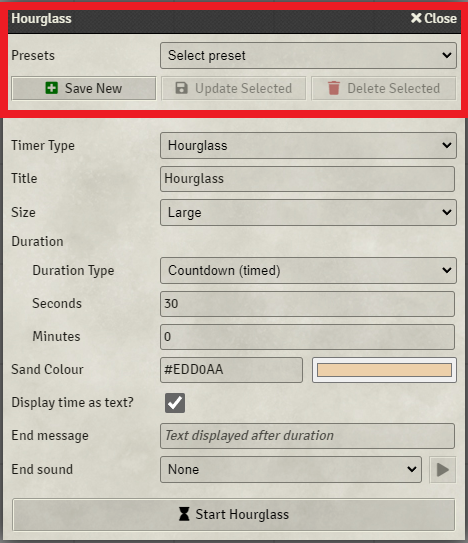
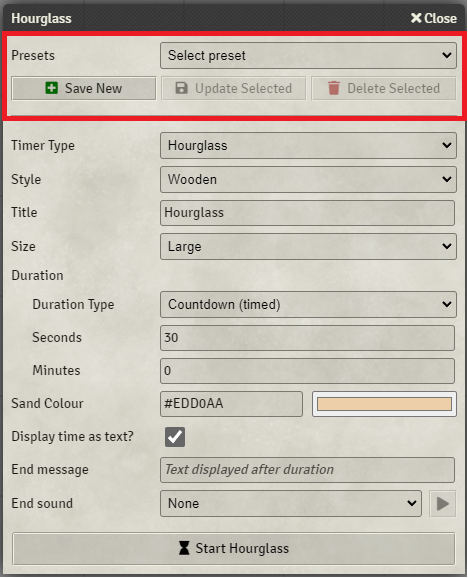
Added style options for timer bodies

diff --git a/scripts/hourglass-gui.js b/scripts/hourglass-gui.js
@@ -27,6 +27,7 @@ export class HourglassGui extends FormApplication {
     durationIncrements: 4,
     sandColour: "#EDD0AA",
     title: "Hourglass",
+    style: "Hourglass_Empty",
     size: "large",
     timeAsText: true,
     endMessage: "",
@@ -68,6 +69,7 @@ export class HourglassGui extends FormApplication {
     setSelectedValue("hourglassSize", HourglassGui.hourGlassDefaultOptions.size);
     setSelectedValue("endSound", HourglassGui.hourGlassDefaultOptions.endSound);
     setSelectedValue("durationType", HourglassGui.hourGlassDefaultOptions.durationType);
+    setSelectedValue("styleSelect", HourglassGui.hourGlassDefaultOptions.style);
 
     document.getElementById('hourglass-gui-application').style.height = "auto";
   }
@@ -93,6 +95,7 @@ export class HourglassGui extends FormApplication {
       durationMinutes,
       durationIncrements,
       title,
+      style,
       size,
       timeAsText,
       sandColour,
@@ -108,6 +111,7 @@ export class HourglassGui extends FormApplication {
       durationMinutes: durationMinutes,
       durationIncrements: durationIncrements,
       title: title,
+      style: style,
       size: size,
       timeAsText: timeAsText,
       sandColour: sandColour,
@@ -210,7 +214,7 @@ export class HourglassGui extends FormApplication {
       document.getElementById("endSoundPath").value = selectedOptions.endSoundPath ?? "";
       setSelectedValue("timerType", selectedOptions.timerType);
 
-      //slight hack to ensure presents saved before addition of "durationType", "hourglassSize" and "endSound" default to a value that matches their previous behaviour
+      //slight hack to ensure presents saved before addition of new features default to a value that matches their previous behaviour
       setSelectedValue("durationType", selectedOptions.durationType === undefined ? "timed" : selectedOptions.durationType);
       setSelectedValue("hourglassSize", selectedOptions.size === undefined ? "large" : selectedOptions.size);
       setSelectedValue("endSound", selectedOptions.endSound === undefined ? "" : selectedOptions.endSound);
@@ -218,6 +222,13 @@ export class HourglassGui extends FormApplication {
 
     this.refreshPresetButtons();
     this.refreshTypeOptions();
+
+    if(!!selectedOptions) {
+      //since the available styles is dependent on the timer type, we need to set this value AFTER the type options have been populated
+      const defaultStyle = selectedOptions.timerType == "hourglass" ? "Hourglass_Empty" : "Flipdown";
+      setSelectedValue("styleSelect", selectedOptions.style === undefined ? defaultStyle : selectedOptions.style);
+    }
+
     this.refreshEndSoundOptions();
   }
 
@@ -236,6 +247,7 @@ export class HourglassGui extends FormApplication {
       id: presetId,
       timerType: document.getElementById("timerType").value,
       title: document.getElementById("hourglassTitle").value,
+      style: document.getElementById("styleSelect").value,
       size: document.getElementById("hourglassSize").value,
       durationType: document.getElementById("durationType").value,
       durationSeconds: document.getElementById("hourglassDurationSeconds").value,
@@ -308,8 +320,34 @@ export class HourglassGui extends FormApplication {
 
     if(typeSelect.value === "flipdown") {
       hideFormElements(true, ["hourglassColourContainer", "hourglassTimeAsTextContainer"]);
+      this.setStyleOptions([{
+        text: "Brass",
+        value: "Flipdown"
+      },{
+        text: "Plastic",
+        value: "Flipdown_Plastic"
+      }]);
+
+      //default selected value seems to be first alphabetically so setting this "original" styles
+      setSelectedValue("styleSelect", "Flipdown");
     } else {
       hideFormElements(false, ["hourglassColourContainer", "hourglassTimeAsTextContainer"]);
+      this.setStyleOptions([{
+        text: "Wooden",
+        value: "Hourglass_Empty"
+      },{
+        text: "Plastic",
+        value: "Hourglass_Empty_Plastic"
+      },{
+        text: "Stone (Round)",
+        value: "Hourglass_Empty_Stone_Round"
+      },{
+        text: "Stone (Square)",
+        value: "Hourglass_Empty_Stone_Square"
+      }]);
+
+      //default selected value seems to be first alphabetically so setting this "original" styles
+      setSelectedValue("styleSelect", "Hourglass_Empty");
     }
 
     if(durationSelect.value === "timed") {
@@ -318,6 +356,24 @@ export class HourglassGui extends FormApplication {
     } else {
       hideFormElements(true, ["hourglassDurationSecondsContainer", "hourglassDurationMinutesContainer", "hourglassTimeAsTextLabel"]);
       hideFormElements(false, ["hourglassDurationIncrementsContainer", "hourglassIncrementsAsTextLabel"]);
+    }
+  }
+
+  setStyleOptions(options) {
+    const styleSelect = document.getElementById("styleSelect");
+
+    for(let i = styleSelect.options.length; i >= 0; i--) {
+      styleSelect.remove(i);
+    }
+
+    const sortedOptions = options.sort((a, b) => a.text.localeCompare(b.text));
+
+    for(let i = 0; i < sortedOptions.length; i++) {
+        const option = sortedOptions[i];
+        let optionElement = document.createElement("option");
+        optionElement.textContent = option.text;
+        optionElement.value = option.value;
+        styleSelect.appendChild(optionElement);
     }
   }
 

diff --git a/scripts/hourglass.js b/scripts/hourglass.js
@@ -37,6 +37,7 @@ export class Hourglass extends Application {
         this._hourglassDripId = `hourglass-drip-${this._id}`;
         
         this._title = options.title;
+        this._style = options.style;
         this._timeAsText = options.timeAsText;
         this._sandColour = options.sandColour;
         this._endMessage = options.endMessage;
@@ -118,6 +119,7 @@ export class Hourglass extends Application {
         canvasElement.style.setProperty('--sand-duration', this._duration + "s");
         canvasElement.style.setProperty('--sand-color', this._sandColour);
         canvasElement.style.setProperty('--scale', this._scale);
+        canvasElement.style.setProperty('--styleUrl', `url(../images/${this._style}.png)`)
 
         this._elapsedTime = 0;
 

diff --git a/scripts/flipdown.js b/scripts/flipdown.js
@@ -31,6 +31,7 @@ export class FlipDown extends Application {
     this._pauseId = `hourglass-pause-${this._id}`;
     
     this._title = options.title;
+    this._style = options.style;
     this._endMessage = options.endMessage;
     this._endSound = options.endSound;
     this._endSoundPath = options.endSoundPath;
@@ -120,6 +121,7 @@ export class FlipDown extends Application {
         windowElement.style.setProperty('width', this._width);
         windowElement.style.setProperty('--scale', this._scale);
         windowElement.style.setProperty('--messageScale', this._messageScale);
+        windowElement.style.setProperty('--styleUrl', `url(../images/${this._style}.png)`)
 
     this.createRotors();
 

diff --git a/styles/hourglass.css b/styles/hourglass.css
@@ -22,6 +22,7 @@
   --translate-bottom-sand: 100%;
   --scale: 1;
   --animationPlayState: running;
+  --styleUrl: url(../images/Hourglass_Empty_Stone_Square.png);
 
   position: relative;
   margin: auto;
@@ -31,7 +32,7 @@
 }
 
 .hourglass .hourglass-body {
-  background-image: url(../images/Hourglass_Empty.png);
+  background-image: var(--styleUrl);
   background-position: center;
   background-size: contain;
   background-repeat: no-repeat;

diff --git a/styles/flipdown.css b/styles/flipdown.css
@@ -26,6 +26,7 @@
   box-shadow: none;
   --scale: 1;
   --messageScale: 1;
+  --styleUrl: url(../images/Flipdown.png);
 }
 
 .flipdownbody .window-content {
@@ -99,7 +100,7 @@
   font-family: sans-serif;
   font-weight: bold;
 
-  background-image: url(../images/Flipdown.png);
+  background-image: var(--styleUrl);
   background-position: center;
   background-size: contain;
   background-repeat: no-repeat;

diff --git a/templates/hourglass-gui.html b/templates/hourglass-gui.html
@@ -41,6 +41,12 @@
     </div>
 
     <div class="hourglass-gui__form__item">
+      <label for="style">Style</label>
+      <select id="styleSelect" name="style">
+      </select>
+    </div>
+
+    <div class="hourglass-gui__form__item">
       <label for="title">Title</label>
       <input  type="text" 
               name="title"

diff --git a/README.md b/README.md
@@ -8,14 +8,14 @@
 
 Configurable animated graphical timers & round trackers for foundry VTT that can be shown by the GM to all players.
 
-![Hourglass Window][1]
-![Hourglass Window][6]
+![Hourglass Timer][1]
+![Flipdown Timer][6]
 
 ## Hourglass Options
 
 To create a new hourglass, a Game Master may select the hourglass icon under the _Token Controls_. 
 
-![Hourglass Window][8]
+![Hourglass Menu][8]
 
 This will open the options window for you to configure your hourglass.
 
@@ -23,6 +23,7 @@ This will open the options window for you to configure your hourglass.
 
 + **Timer Type** - The type of animated graphic to show to players. Options currently include "Hourglass" & "Flipdown Clock".
 + **Title** - The display name of the timer that will appear at the top left.
++ **Style** - The visual style of the timer graphic to be displayed.
 + **Size** - The display size of the timer window: Tiny, Small, Medium & Large.
 + **Duration Type** - Whether the timer should be an automatic (timed) or manual "on click" countdown.
 + **Duration (Seconds/Minutes)** - The time taken for the hourglass to complete.
@@ -35,11 +36,13 @@ This will open the options window for you to configure your hourglass.
 
 The _start hourglass_ button, once pressed, will cause a new hourglass window to appear on the screen of all players currently in the game session using the chosen options:
 
-![Hourglass Window][3]
+![Hourglass Timer Purple][3]
 
 Once the duration has elapsed, the remaining time will dissapear and be replaced by the _end message_ (if one has been entered):
 
-![Hourglass Window][4]
+![Hourglass Timer Message][4]
+
+An _end sound_ will also be played to all players (if one has been selected).
 
 Players can move the hourglass around the screen while it is counting down. They do also have the option of closing it, though they should only do this once the duration has elapsed.
 
@@ -50,15 +53,34 @@ Multiple hourglasses can be opened by a GM at one time, should you wish to track
 ## Manual "on click" control
 Timers can be set to "manual" control by setting the Duration type to "Manual (user click)" in the hourglass options.
 
-![Hourglass Window][7]
+![Hourglass Timer Manual][7]
 
 The manual timers feature a forward and backward button that, when clicked, will decrease and increase the remaining increments respectively. This could potentially be used by GMs to include manually controlled/incremented events or round tracking within their games. Both forward and back buttons are only visible to users with the GM role.
+
+## Styles
+As well as changing the sand colour, each timer has a range of different visual styles to choose from.
+
+<table>
+<tr>
+<td>
+<img src="https://raw.githubusercontent.com/Octarines/FoundryHourglass/main/demo/hourglass-custom-round.PNG"
+     alt="Hourglass Timer Round Stone"/>
+</td>
+<td>
+<img src="https://raw.githubusercontent.com/Octarines/FoundryHourglass/main/demo/hourglass-custom-square.PNG"
+     alt="Hourglass Timer Round Stone"/>
+</td>
+</tr>
+</table>
+Each style has all of the same functionality and customisation options as the default.
+
+A heartfelt thankyou to artist [Zael](https://foundryvtt.com/community/zael) for creating some fantastic alternative timer styles with a range of themes.
 
 ## Presets
 
 Game Masters have the ability to save Hourglass Options as _Presets_. This will allow frequently used configurations to be quickly recalled and displayed.
 
-![Hourglass Window][5]
+![Hourglass Window Preset][5]
 
 + **Select Preset** - Presents a dropdown list of all previously saved Hourglasses. A GM can select a preset from this list to populate all options fields with data saved for that preset.
 + **Save New** - Will persist all currently entered options as a new Preset with a name matching the Title field.
@@ -68,7 +90,7 @@ Game Masters have the ability to save Hourglass Options as _Presets_. This will 
 ## End Sound
 Games masters can choose to play a sound at the end of the timer duration by selecting it from the "End Sound" dropdown in the options window.
 
-![Hourglass Window][9]
+![Hourglass Window Sounds][9]
 
 Once selected, the sound can be previewed (in the GM's client only) by pressing the "Play" button on the right of the dropdown.
 
@@ -80,11 +102,11 @@ When an End Sound is selected, this sound will play in all clients where the tim
 ## Pausing
 Once a timer has been created, the countdown can be paused by clicking the "pause" button in the top right of the timer window.
 
-![Hourglass Window][10]
+![Hourglass Timer Pause][10]
 
 This will cause the animation to stop playing and for the words "(Paused)" to appear in the text area of the window. In the case where "Display time as text" has been selected, the "(Paused)" indicator will be appended to the remaining time.
 
-![Hourglass Window][11]
+![Hourglass Timer Resume][11]
 
 To resume the countdown, the GM can simply press the "Resume" button (which has replaced the "Pause" button) in the top right of the window.
 
